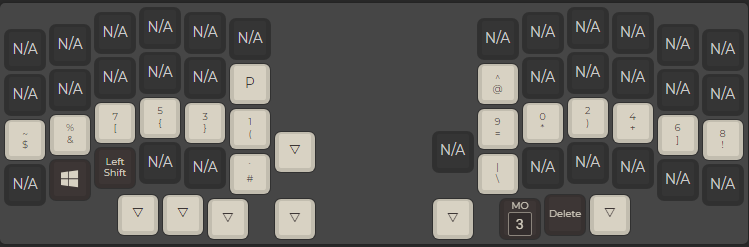
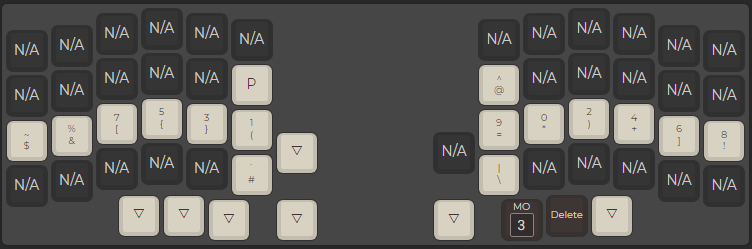
Oli's keymap v1.1

diff --git a/keyboards/splitkb/aurora/lily58/keymaps/olillin/readme.md b/keyboards/splitkb/aurora/lily58/keymaps/olillin/readme.md
@@ -26,10 +26,11 @@ The Symbols layer gives access to some symbols in addition to the delete key as 
 
 ![Layer 2](layer_screenshots/layer2.png)
 
-The Navigation layer gives access the arrow keys on the right hand, navigation keys on the left hand in addition to a function key row.
+The Navigation layer gives access the arrow keys on the right hand, navigation keys on the left hand in addition to a function key row.  
+In addition to this there are also mouse controls.
 
 ### Layer 3: Numpad
 
 ![Layer 3](layer_screenshots/layer3.png)
 
-The Numpad layer exposes RGB adjustment keys on the right hand.
+The Numpad layer exposes a numpad on the right hand and media and extra function buttons on the left hand.

diff --git a/keyboards/splitkb/aurora/lily58/keymaps/olillin/changelog.md b/keyboards/splitkb/aurora/lily58/keymaps/olillin/changelog.md
@@ -1,0 +1,10 @@
+# Changelog
+
+## v1.1
+
+- Removed accidental keys on Symbols layer
+- Flipped numpad
+- Added mouse controls
+- Added extra function keys to Numpad layer
+- Added media controls to Numpad layer
+- Added mouse controls to Navigation layer
